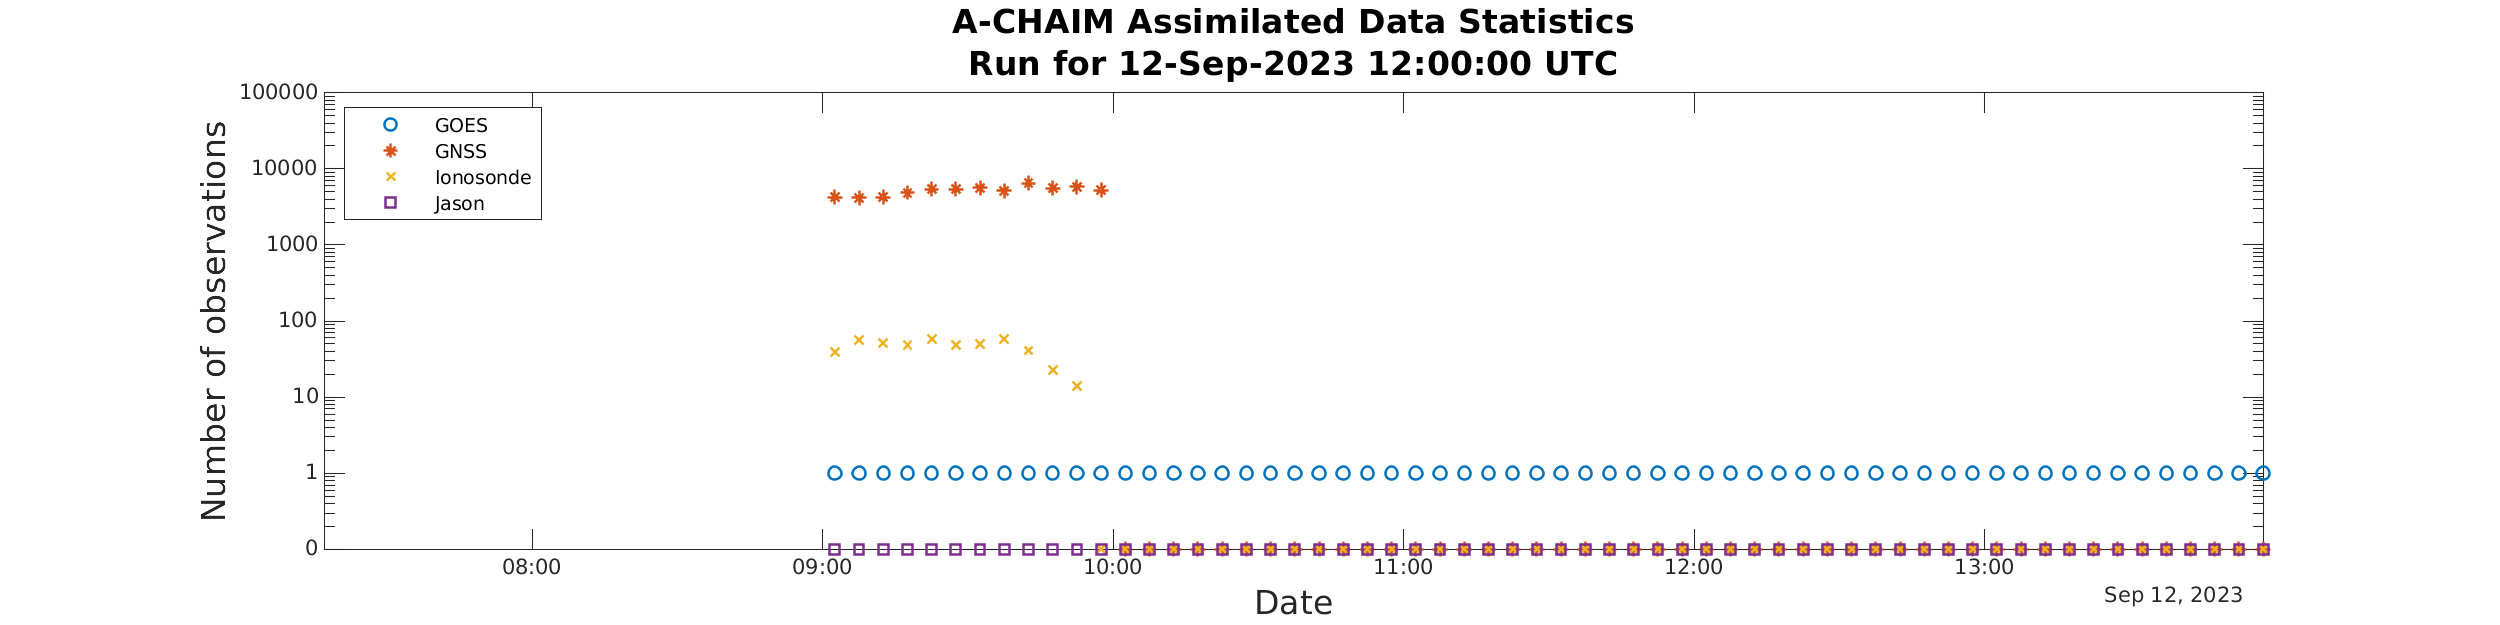
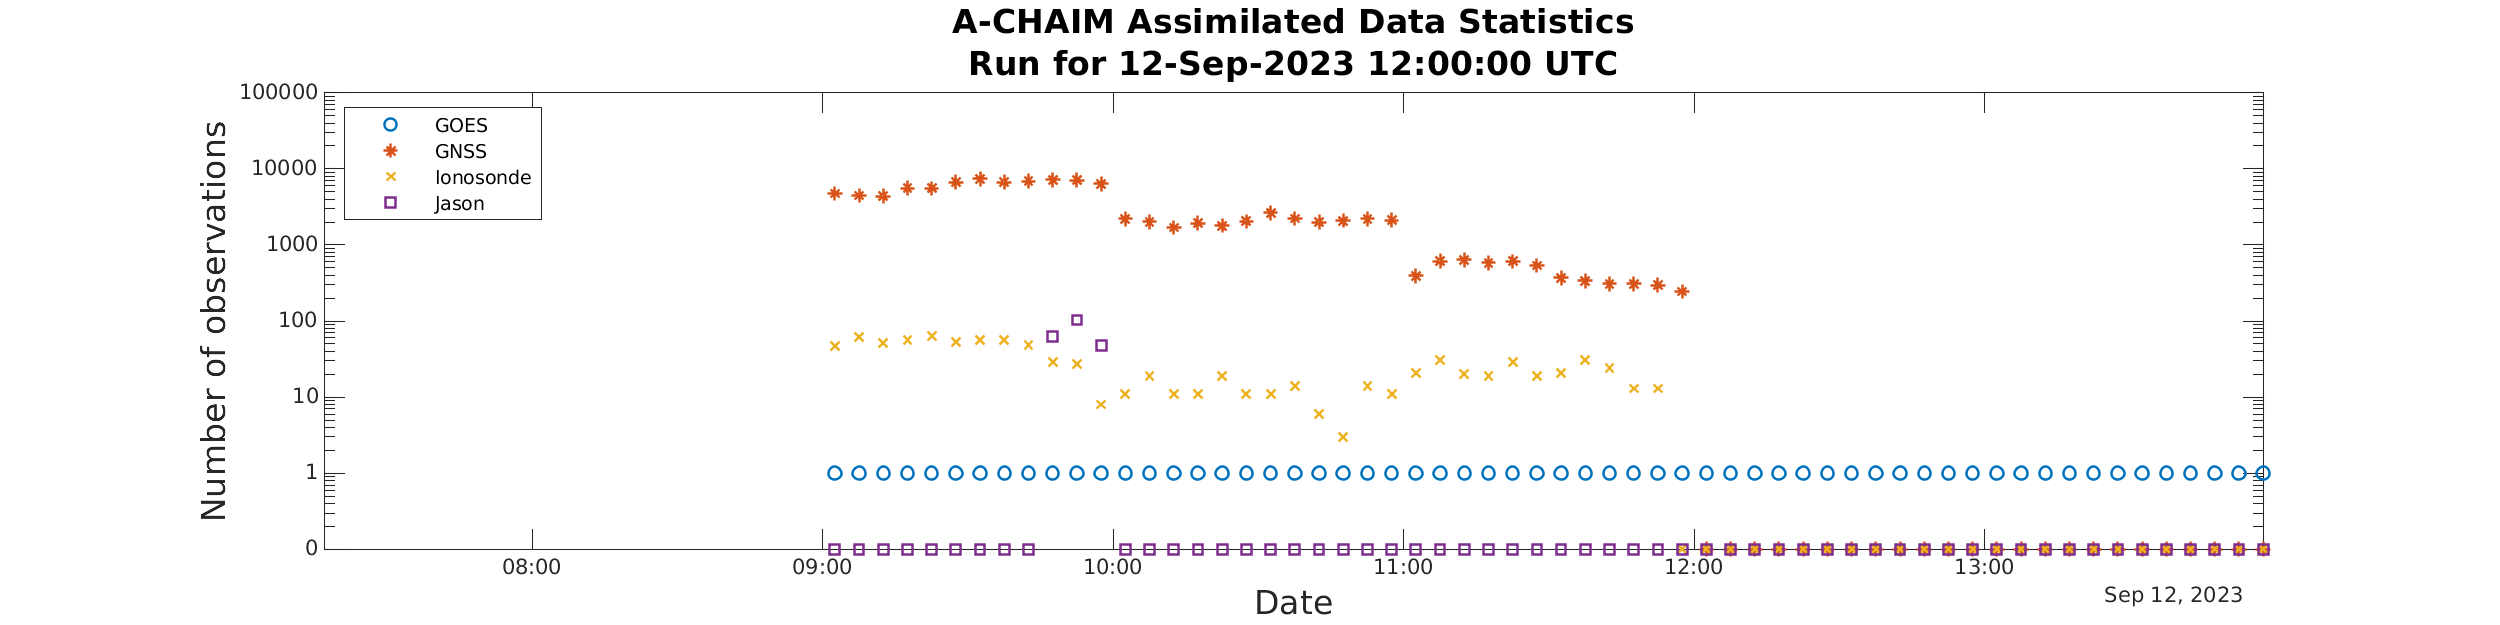
update 2023-09-12 09:48:39

diff --git a/_posts/2023-09-12-12-00-00.md b/_posts/2023-09-12-12-00-00.md
@@ -1,7 +1,7 @@
 ---
 layout: post
 title: "2023-09-12 12:00:00"
-subtitle: "ModelData Issues: 4; A-CHAIM System Issues: 1"
+subtitle: "ModelData Issues: 4; A-CHAIM System Issues: 2"
 permalink: /latest/
 ---
 
@@ -17,17 +17,18 @@ permalink: /latest/
 ### ModelData Issues:  
   
 {: .box-warning}  
- ModelData report for 12-Sep-2023 11:15:43   
- /home2/achaim1/A-CHAIM/modelData/2023/255/11/modelData.mat   
- 0% of all possible stations for IONO were downloaded. x499   
- 0% of all possible stations for JASON were downloaded. x6   
- 0% of all possible stations for KASI were downloaded. x5011   
- 0% of all possible stations for KARTVERKET were downloaded. x4720   
+ ModelData report for 12-Sep-2023 12:15:45   
+ /home2/achaim1/A-CHAIM/modelData/2023/255/12/modelData.mat   
+ 0% of all possible stations for IONO were downloaded. x500   
+ 0% of all possible stations for JASON were downloaded. x7   
+ 0% of all possible stations for KASI were downloaded. x5012   
+ 0% of all possible stations for KARTVERKET were downloaded. x4721   
   
 ### A-CHAIM System Issues:  
   
 {: .box-error}  
 2023-09-12 11:32:58 RINEX is neither version 2.xx or 3.xx  
+2023-09-12 12:48:09 RINEX is neither version 2.xx or 3.xx  
 
 ### Logs:  
   
